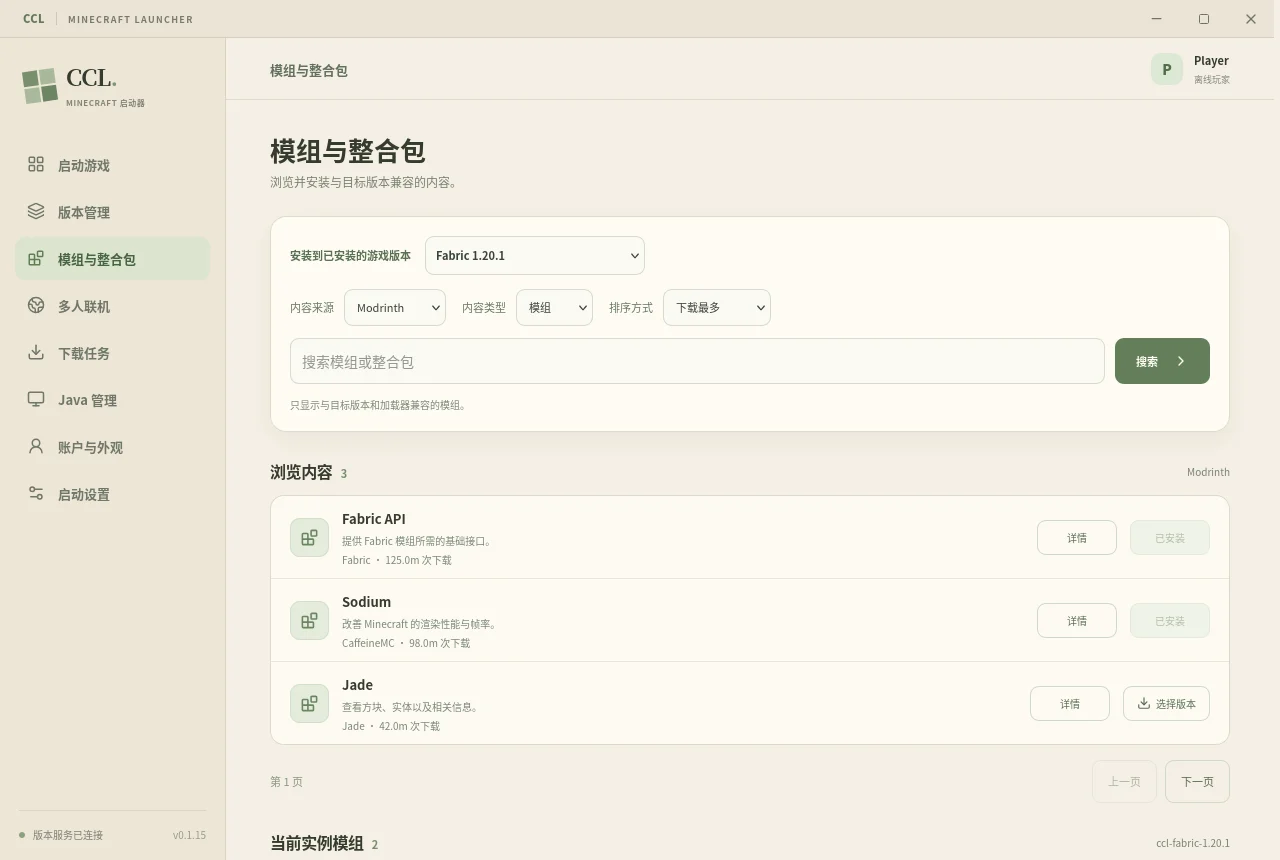
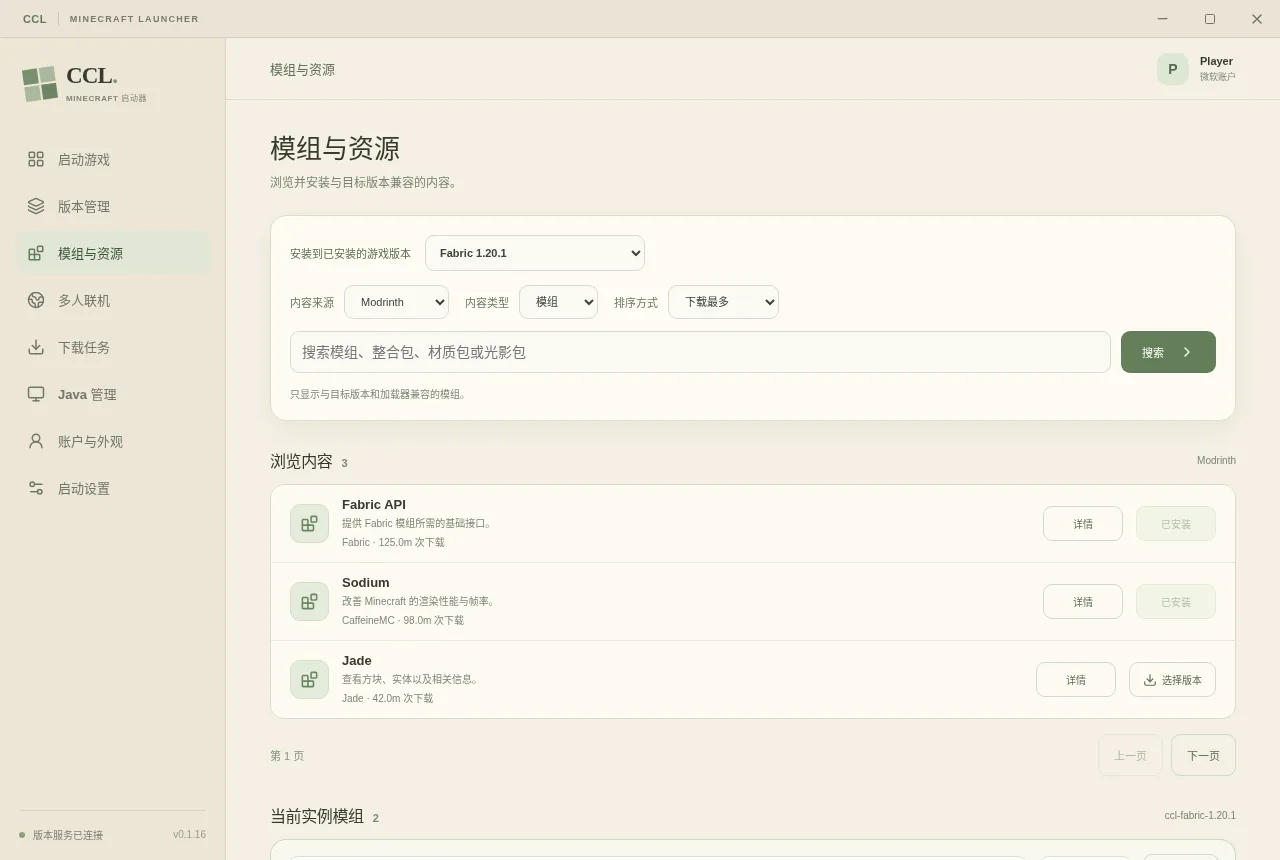
Update content browsing screenshots

diff --git a/README.md b/README.md
@@ -49,13 +49,17 @@ Windows 安装包尚未进行代码签名；macOS 包使用临时签名，尚未
 | --- | --- |
 | ![CCL 版本管理界面](docs/screenshots/versions.webp) | ![CCL 游戏安装配置界面](docs/screenshots/install.webp) |
 
-![CCL 模组与整合包浏览界面](docs/screenshots/mods.webp)
+**模组与资源** · 按游戏版本浏览模组、整合包、材质包和光影包，并选择具体版本下载。
+
+![CCL 模组浏览界面](docs/screenshots/mods.webp)
+
+![CCL 光影包浏览界面](docs/screenshots/shader.webp)
 
 **账户与外观** · 预览角色皮肤，管理正版账户的皮肤与披风。
 
 ![CCL 账户与外观界面，显示角色皮肤的三维预览](docs/screenshots/appearance.webp)
 
-*版本管理、安装配置、模组浏览和账户外观截图使用示例数据。*
+*版本管理、安装配置、内容浏览和账户外观截图使用示例数据。*
 
 ## 使用须知
 
